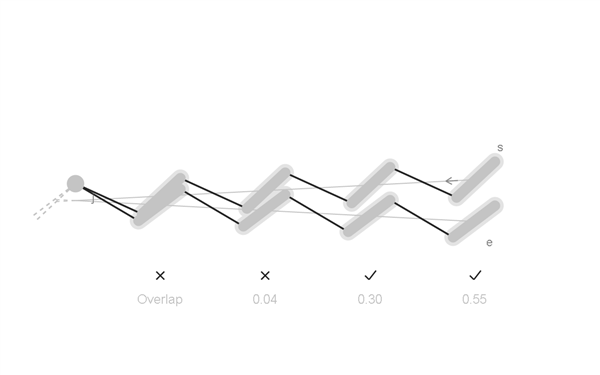
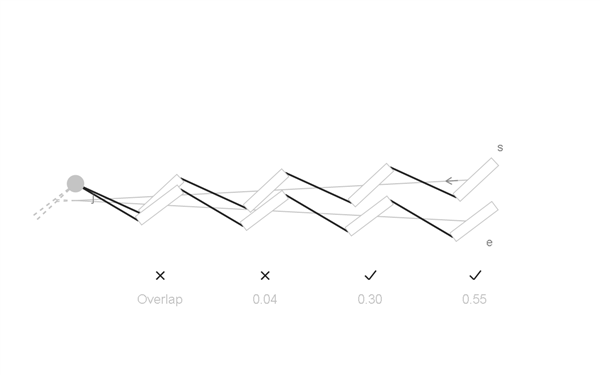
Use sharp rectangular slits in clearance illustration

diff --git a/examples/illustrated/README.md b/examples/illustrated/README.md
@@ -126,7 +126,7 @@ Gap bounds, fixed neighbours, endpoint positions and opening clearance are check
 
 ### Check the whole layout: A10
 
-Two fixed arms meet at $6^\circ$. Stitching approaches the junction from the wide end: two pairs pass, the next leaves only $0.04\,\mathrm{mm}$ clearance, and the nearest pair overlaps. Checks and crosses identify the result; numbers are edge-to-edge clearance in millimetres. Light envelopes show the required allowance. With $w=0.3\,\mathrm{mm}$ and $m=0.2\,\mathrm{mm}$, the complete layout is invalid. `ILL-CLEARANCE`.
+Two fixed arms meet at $6^\circ$. Stitching approaches the junction from the wide end: two pairs pass, the next leaves only $0.04\,\mathrm{mm}$ clearance, and the nearest pair overlaps. Checks and crosses identify the result; numbers use the model's conservative clearance calculation in millimetres. Slits use sharp rectangular outlines at the specified width. With $w=0.3\,\mathrm{mm}$ and $m=0.2\,\mathrm{mm}$, the complete layout is invalid. `ILL-CLEARANCE`.
 
 ![Pairs farther from the junction pass clearance; pairs near it fail](assets/axiom-clearance.gif)
 
